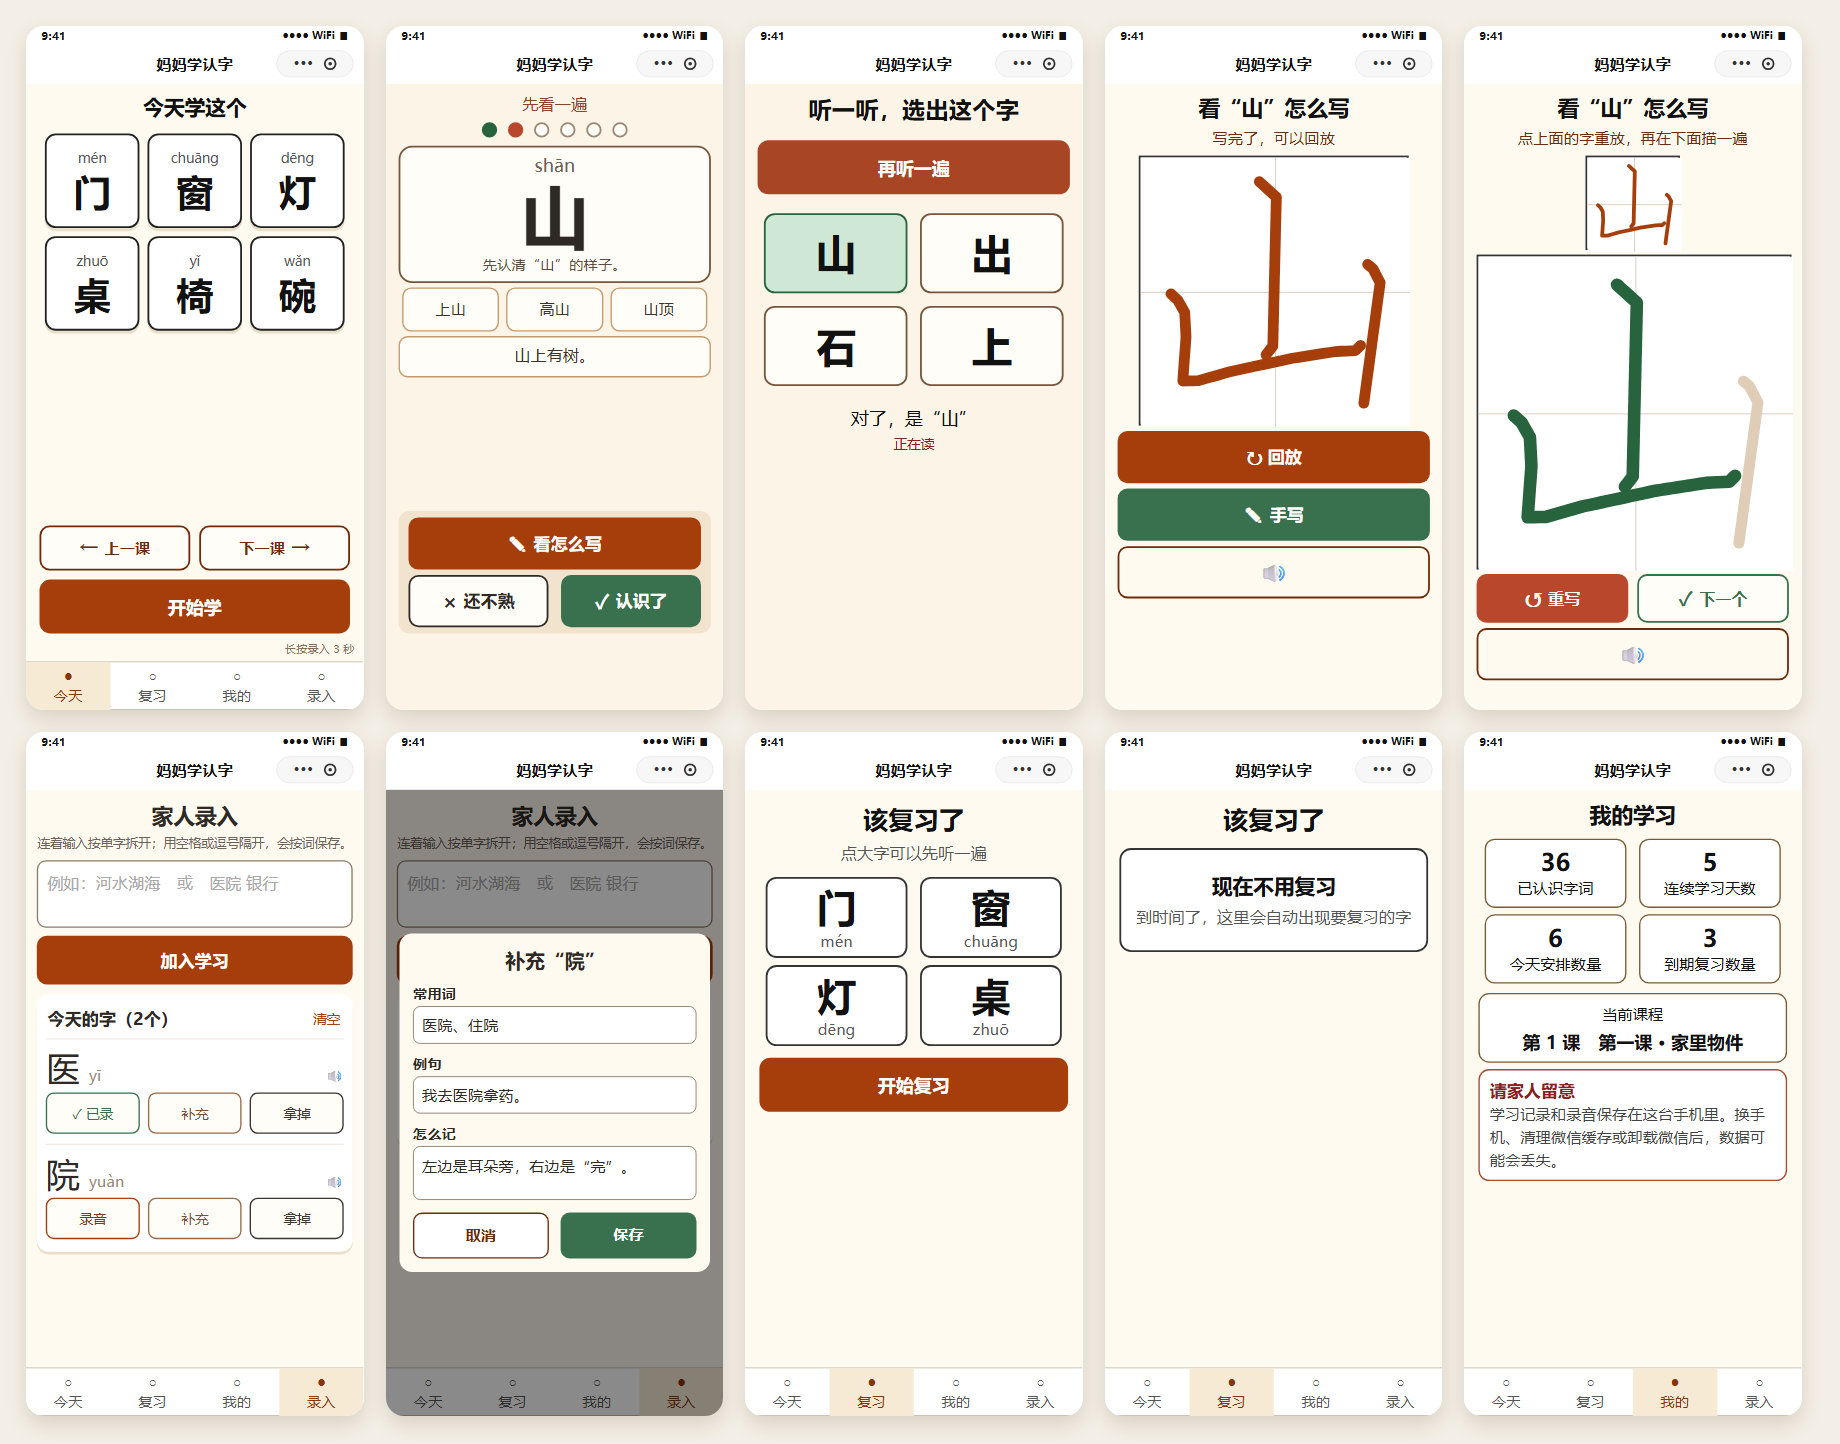
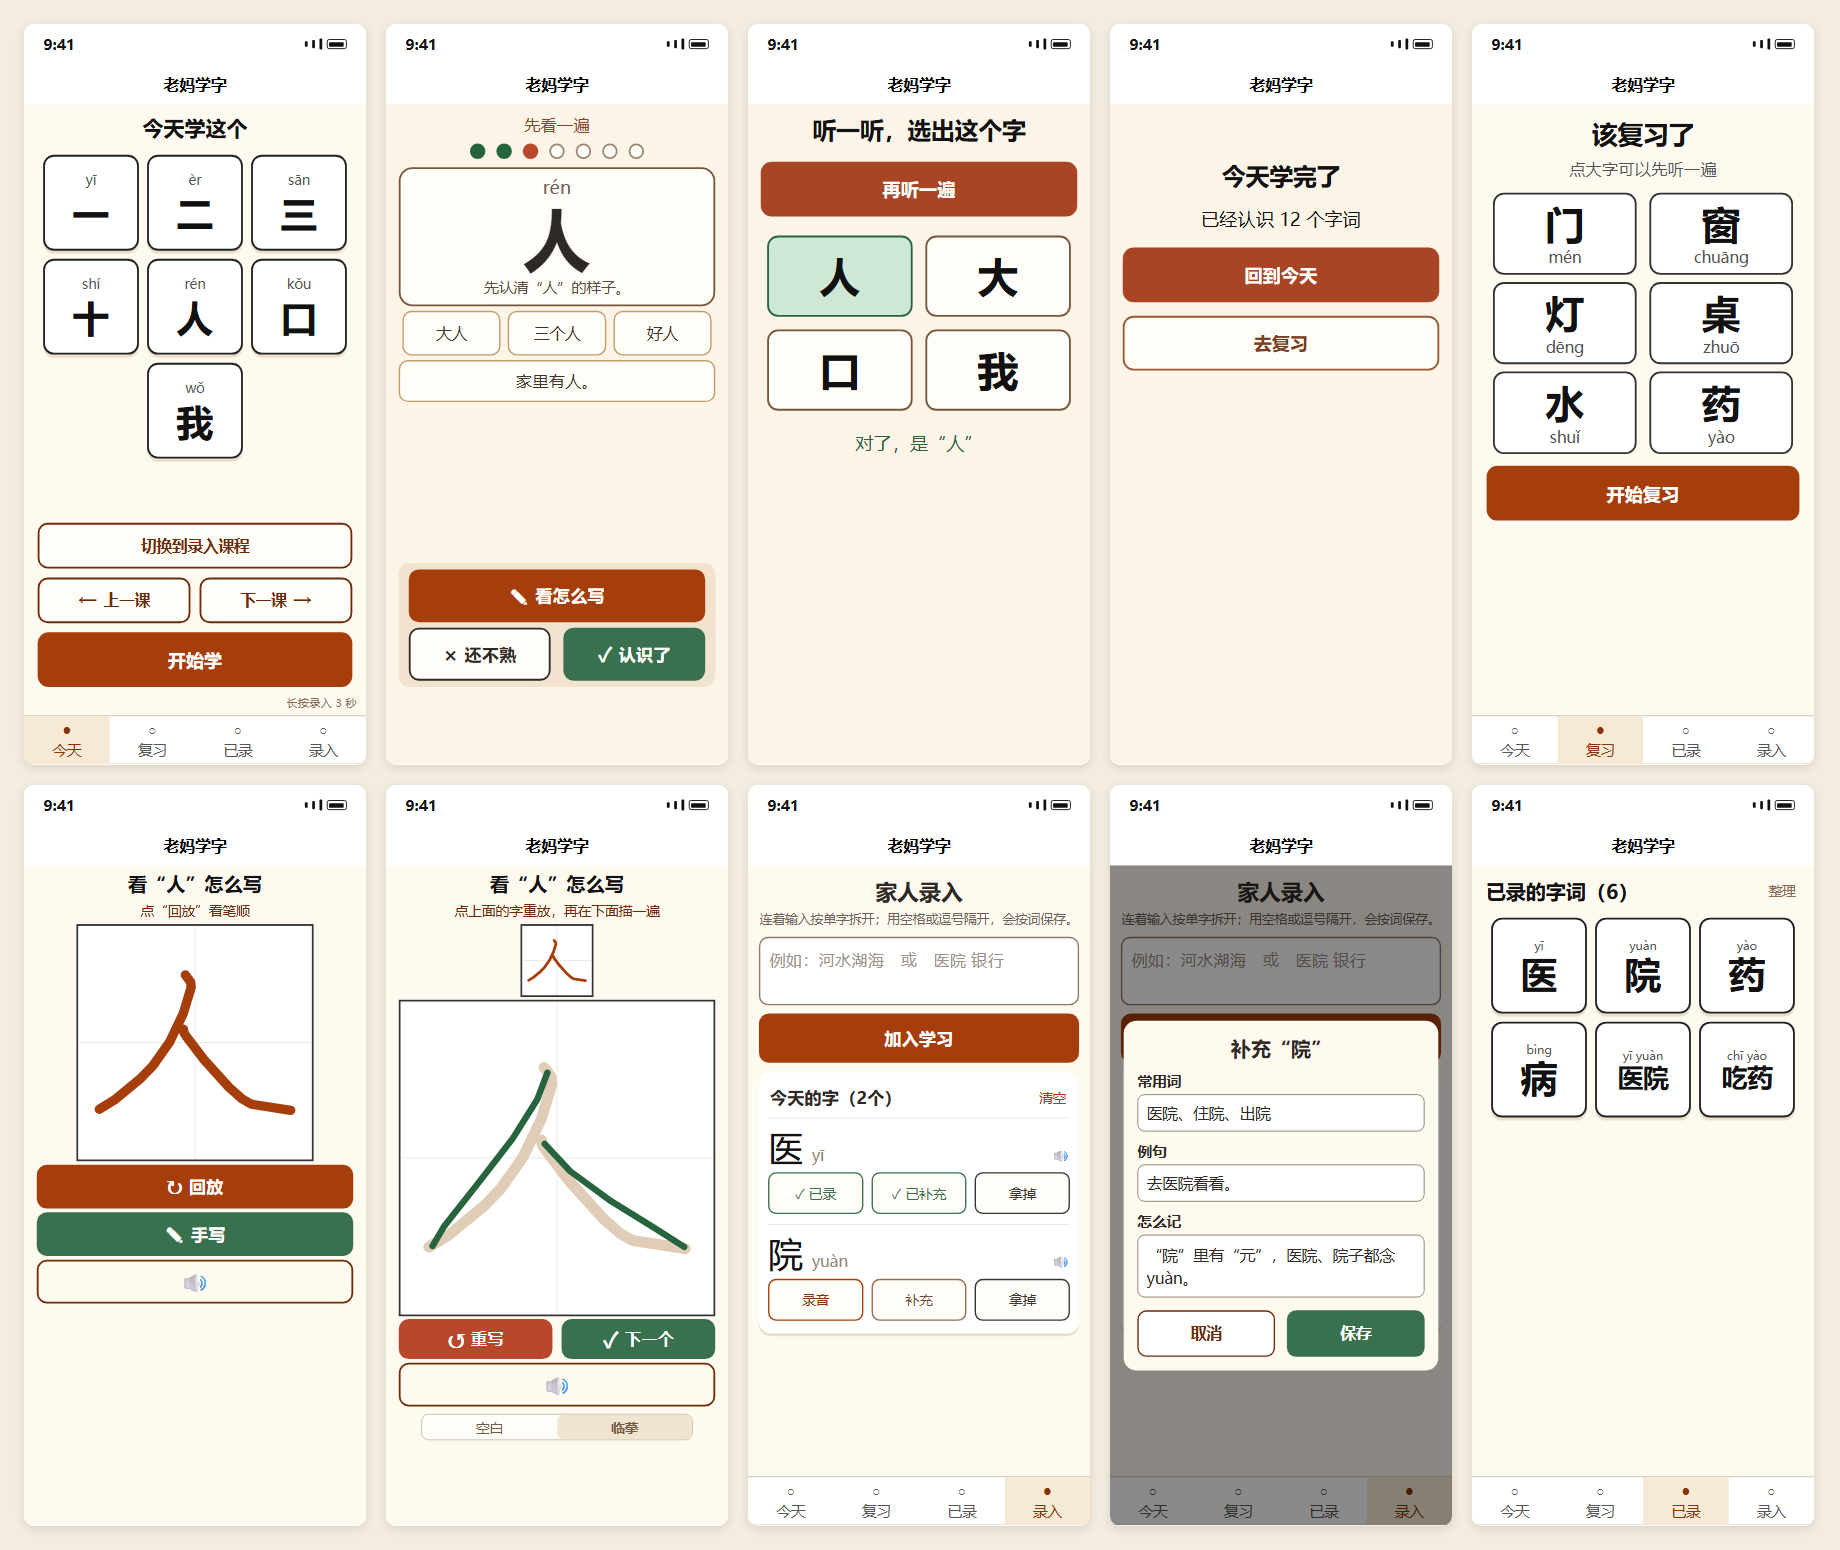
发行版说明

diff --git a/README.md b/README.md
@@ -1,47 +1,116 @@
 # 老妈学字
 
-一款为识字较少的长辈设计的微信小程序。通过听读音、看大字卡、听音选字和间隔复习，帮助长辈学习生活中常用的字词。
+一个帮助长辈学习认字的微信小程序。内置了一些文字，也可以自己**录入**文字来给家里长辈学习，录入身边常用字，点一下字就读出来，一屏只放一课，能看笔顺、能用手在屏幕上写，家人还能把自己的**声音**录进去来辅助学生发音。
+
+学习记录和录音全部留在本机。
+
+## 目录
+
+- [主要功能](#主要功能)
+- [界面预览](#界面预览)
+- [如何使用](#如何使用)
+- [项目结构](#项目结构)
+- [隐私与数据](#隐私与数据)
+- [数据来源](#数据来源)
+- [许可证](#许可证)
 
 ## 主要功能
 
-老妈学字小程序预览：
+**默认课程 30 课。** 每课 7 个字，一共 210 个字，全课程没有重复。换课要自己点首页的「← 上一课 / 下一课」，隔天不会自动跳到下一课。
 
-![](README.assets/preview.png)
+**一屏就是这一课的内容。** 首页只放当前这一课的 7 个字，点一下就读出来。学过的字不会消失，可以反复点、反复学。
 
-- **家人添加学习内容**：家人可以录入常用的字或词，自动加入当天学习任务，也可以补充组词、例句和记忆提示。
-- **家人录制读音**：家人可以为字词录音。播放时优先使用家人的录音，让长辈听熟悉的声音；没有录音时尝试播放内置读音，缺少读音资源时会提示家人补录。
-- **方便反复学习**：默认课程共 30 课，每课 7 个新字；课程需要手动切换，不会因隔天自动换课。家人录入的内容也不会自动过期。
-- **已录字词本**：家人录入且长辈已认识的字词会保存在“已录”页，方便之后快速翻看和复习。
-- **手写练习**：提供笔顺动画、田字格书写和临摹模式。
+**家人录入。** 在底部「录入」上按住 3 秒就能进。连着写的字按单字拆开，用空格或逗号隔开就按词保存。录入的内容不会过期，新录入是往上追加。
+
+**家人录读音。** 每个字可以录一段 4 秒的家人声音，播放时优先用家人的录音——长辈最认这个声音。也可以补上常用词、例句、怎么记。
+
+**到期自动复习。** 点过「认识了」的字会排进「复习」页，按 30 分钟到 30 天的间隔到期出现，答对间隔拉长、答错缩短，只列今天该复习的字。
+
+**看笔顺 + 手写。** 逐笔动画回放，然后在田字格里用手指写。可以选「临摹」（底下有浅色字帖）或「空白」（只有格子）。
+
+**已录字词本。** 家人录过、长辈也认识过的字词单独收在一页，点一下就能听到家人的声音。
+
+### 界面预览
+
+下面 10 张是按当前界面还原的截图，可以点开放大看。
+
+<img src="README.assets/preview.png" width="880" alt="老妈学字界面总览">
+
+
 
 ## 如何使用
 
 ### 微信扫码打开
 
-使用微信扫描下面的小程序码，即可打开小程序。
+用微信扫一扫：
 
-<img src="README.assets/老妈学字小程序.jpg" alt="妈妈学认字小程序码" style="zoom: 67%;" />
+<img src="README.assets/老妈学字小程序.jpg" width="220" alt="老妈学字小程序码">
+
+小程序已经发布，扫码就能用，不需要注册或登录。
 
 ### 长辈学习
 
-在“今天”页面点击“开始学”，按提示听读、认字；认识了就点“认识了”，还不熟就点“还不熟”。也可以在“复习”页面复习到期字词，或点字卡进入笔顺和手写练习。
+1. 打开后点「开始学」。
+2. 一个字一张卡：拼音、大字、怎么记。字卡出来约半秒会自动读一遍，点大字可以再听。
+3. 认识了点「✓ 认识了」，拿不准点「× 还不熟」。
+4. 学完做几道「听一听，选出这个字」，在四个大字里选一个。
+
+选错不扣分、也不重来，只是把正确的那个标出来。刚才点过「还不熟」的字会自动再走一遍。
+
+点「✎ 看怎么写」，可以看这个字的笔顺动画，再切到手写，用手指在田字格里描。
 
 ### 家人录入字词和录音
 
-1. 在底部导航栏长按“录入”3 秒，进入家人录入页面。
-2. 输入汉字或词语，点击“加入学习”。连续输入的汉字会按单字拆分；用空格或逗号分隔的内容会按词保存。
-3. 在当天列表中点“录音”录下家人的读音。再次录入新内容时，可以把旧内容从当天任务中拿掉；已学字词会继续保存在“已录”页。
+1. 在底部导航「录入」上**按住 3 秒**，屏幕中间会出现 3→2→1 倒计时，中途松手就取消。
+2. 输入汉字，点「加入学习」。连着写的按单字拆开；用空格、逗号、顿号隔开就按词保存。
+3. 每个字右边三个按钮：**录音**（说完 4 秒自动停）、**补充**（常用词、例句、怎么记）、**拿掉**。
+4. 录过音的字按钮会变成「✓ 已录」——再点它是**删除确认**，不是重录。
+
+录入的内容不会过期，新录入是往上追加。不想要的用「拿掉」从今天移走，录音和补充信息会保留。
 
 ### 开发者运行
 
-安装[微信开发者工具](https://developers.weixin.qq.com/miniprogram/dev/devtools/download.html)，导入本项目根目录（能看到 `app.json` 的目录），使用测试号或自己的 AppID 编译运行。项目无需安装第三方依赖。
+用[微信开发者工具](https://developers.weixin.qq.com/miniprogram/dev/devtools/download.html)导入项目根目录（能看到 `app.json` 的那一层），用测试号或自己的 AppID 编译。
+
+项目没有 `package.json`，不需要 `npm install`，运行时不发起任何网络请求。改完课程数据可以跑 `node scripts/check-course.js` 做一次自检。
+
+## 项目结构
+
+只列到目录，每个目录一句话。`不进包` 表示已经写进 `packOptions.ignore`，不会打进小程序安装包。
+
+```text
+studyMM_rebuild/
+├── app.js / app.json / app.wxss   入口与全局配置（没有 tabBar，底部导航由各页面自绘）
+├── pages/                          主包，四个主页面
+│   ├── index/                      今天
+│   ├── review/                     复习
+│   ├── profile/                    已录
+│   └── input/                      录入（长按 3 秒进入）
+├── study/                          分包：学习流程
+│   ├── pages/learn/                认字卡、听音选字、完成页
+│   ├── data/phrase-map.js          292 条词组 → 读音文件的映射
+│   └── audio/                      292 个词组读音 mp3，约 1.3 MB
+├── stroke/                         分包：笔顺与手写
+│   ├── pages/write/                笔顺动画与田字格手写
+│   ├── data/strokes.js             2988 个字的笔画路径，约 1.7 MB
+│   └── utils/stroke-geometry.js    坐标缩放与笔画插值
+├── utils/                          复习间隔、本地存储、录音、播放、录入解析等模块
+├── data/                           30 课课程、20856 字拼音表、6299 条词表
+├── audio-py/                       965 个拼音音节读音 mp3，约 1.3 MB
+├── scripts/check-course.js         课程数据自检（不进包）
+├── tests/                          单元测试（不进包）
+└── README.assets/                  截图与小程序码（不进包）
+```
+
+主包只有 4 个页面，学习页和手写页放在 `study` / `stroke` 两个分包里，按需加载，首屏更快。
 
 ## 隐私与数据
 
-- 无需注册或登录；学习记录、当天任务、补充内容和家人录音保存在当前设备的小程序本地存储中。
-- 小程序代码不包含网络请求逻辑，数据不会上传到项目服务器。
-- 更换手机、清理微信数据或卸载微信可能导致学习记录和录音丢失。
-- 公开仓库不包含开发者本机配置和用户运行时录音；`project.config.json` 使用游客占位 AppID。
+- 无需注册或登录；学习记录、当天任务、补充内容和家人录音都保存在这台手机的本地存储里。
+- 小程序代码里没有任何网络请求，数据不会上传到任何服务器。
+- 换手机、清理微信数据或卸载微信，学习记录和录音可能会丢失。
+- 家人录音是 16kHz 单声道 mp3，只存在本机，跟着小程序数据一起清理。
+- 公开仓库不包含开发者本机配置和用户运行时录音；`project.config.json` 用的是游客占位 AppID。
 
 ## 数据来源
 
